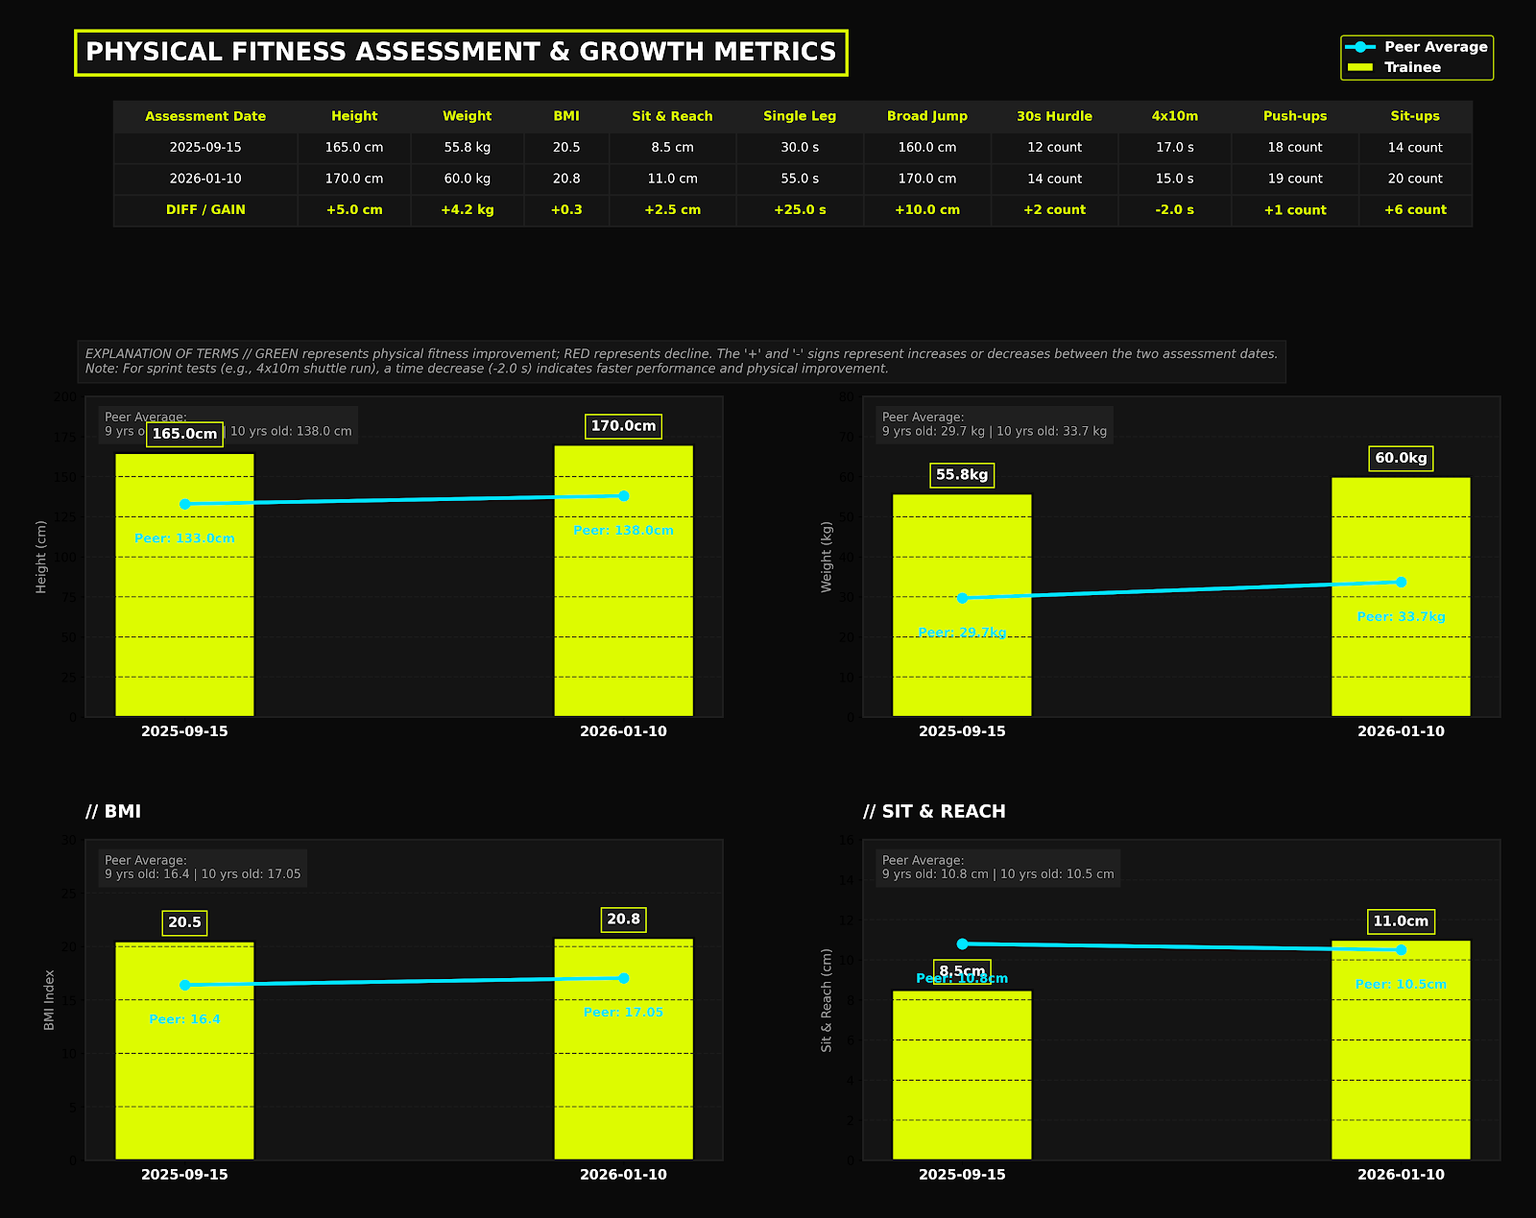
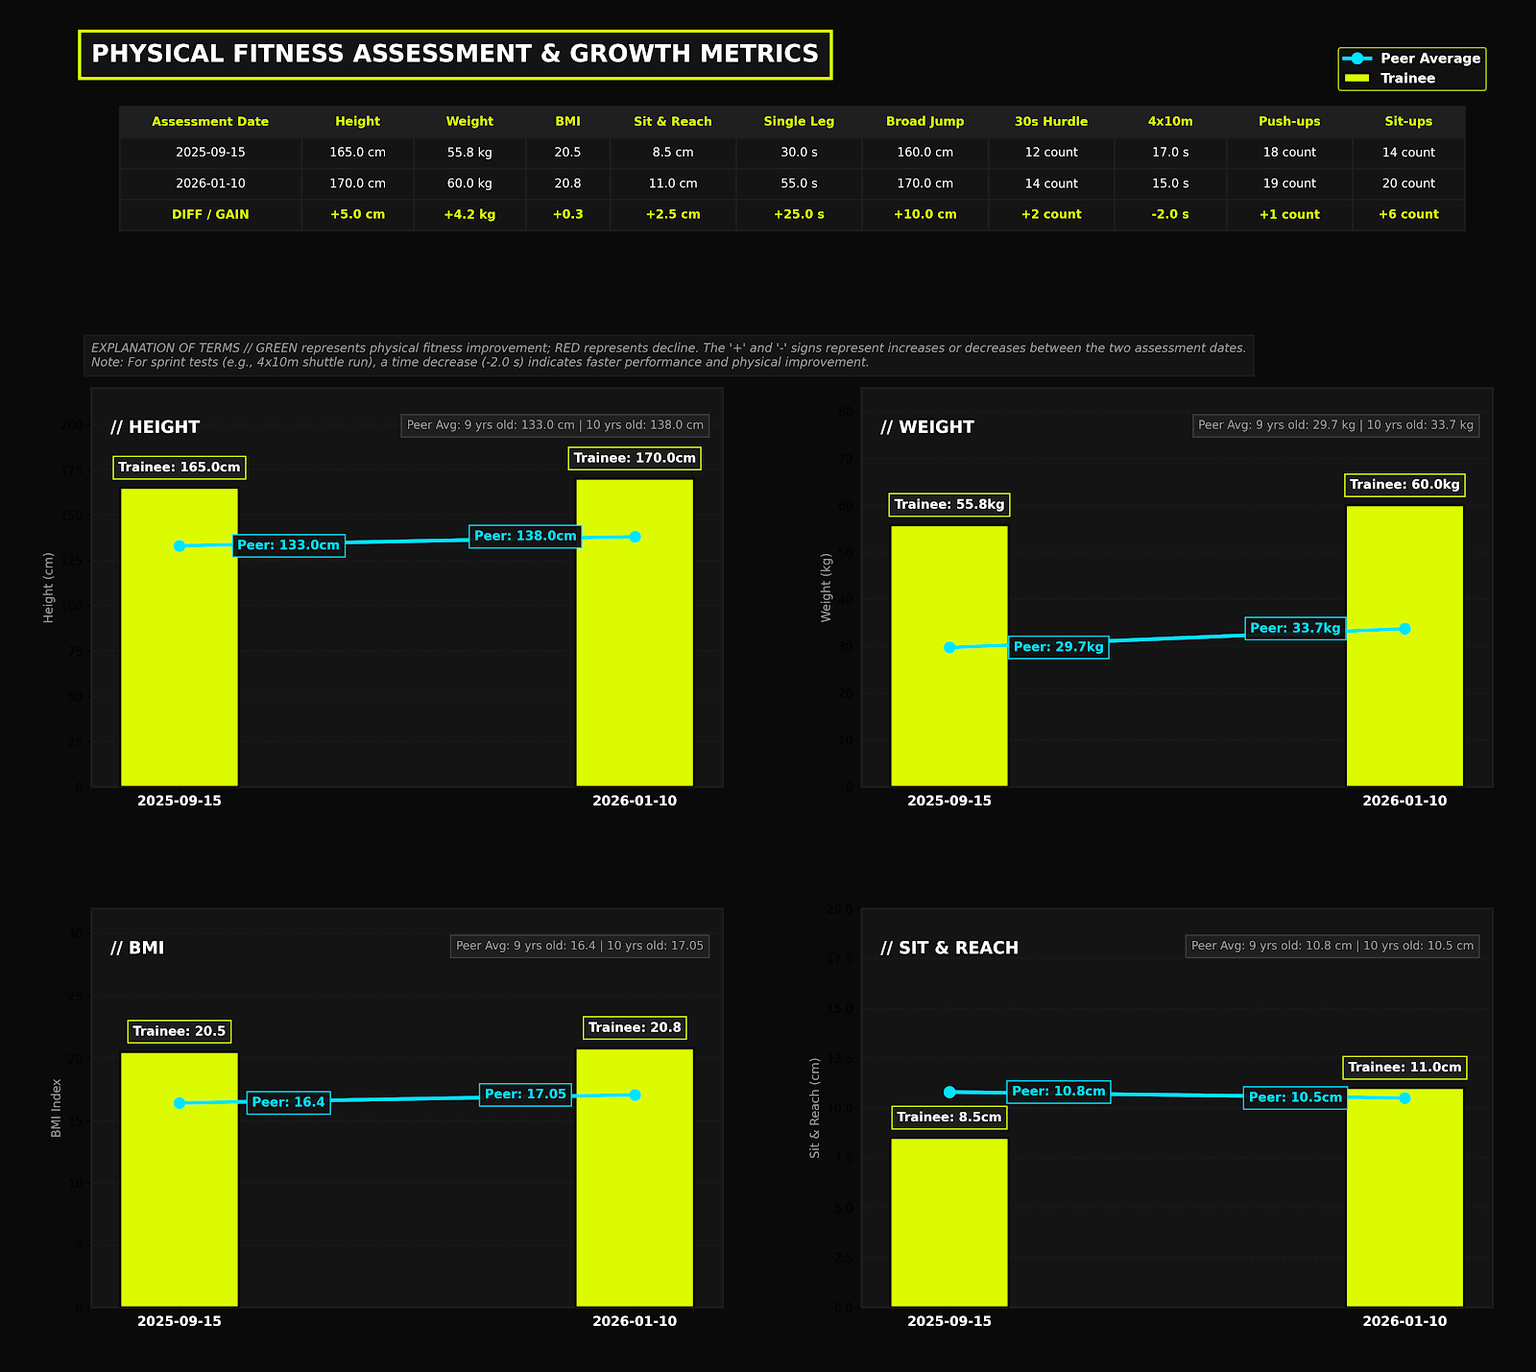
Refine footer and service page layout

diff --git a/src/components/Footer.tsx b/src/components/Footer.tsx
@@ -3,6 +3,20 @@ import Image from "next/image";
 import { footerNav } from "@/content/nav";
 import { offices, siteConfig } from "@/config/site";
 
+function getMapsLink(location: {
+  street: string;
+  region: string;
+  mapQuery?: string;
+  coords?: { lat: number; lng: number };
+}) {
+  if (location.coords) {
+    return `https://www.google.com/maps/search/?api=1&query=${location.coords.lat},${location.coords.lng}`;
+  }
+
+  const query = location.mapQuery ?? `${location.street}, ${location.region}`;
+  return `https://www.google.com/maps/search/?api=1&query=${encodeURIComponent(query)}`;
+}
+
 /**
  * The one and only site footer.
  *
@@ -15,9 +29,9 @@ export function Footer() {
   return (
     <footer className="relative overflow-hidden border-t border-[var(--bg-elevated)] bg-[var(--bg-base)]">
       <div className="mx-auto w-full max-w-7xl px-5 py-16 sm:px-8 sm:py-20">
-        <div className="grid gap-12 lg:grid-cols-[1.5fr_2fr]">
+        <div className="grid gap-10 lg:grid-cols-[1.2fr_1.1fr] lg:items-start">
           {/* Brand + blurb */}
-          <div className="max-w-md">
+          <div className="max-w-xl">
             <Image
               src={siteConfig.logoUrl}
               alt={siteConfig.name}
@@ -27,31 +41,39 @@ export function Footer() {
             />
             <p className="type-body mt-6 text-sm">{siteConfig.footerBlurb}</p>
 
-            <div className="mt-8 flex items-center gap-4">
-              <a
-                href={siteConfig.social.instagram}
-                target="_blank"
-                rel="noopener noreferrer"
-                aria-label="J17 Fitness on Instagram"
-                className="flex h-11 w-11 items-center justify-center border border-[var(--bg-elevated)] text-[var(--text-secondary)] transition-colors duration-150 hover:border-[var(--accent-lime)] hover:text-[var(--accent-lime)]"
-              >
-                <svg
-                  viewBox="0 0 24 24"
-                  aria-hidden="true"
-                  className="h-5 w-5 fill-current"
+            <div className="mt-8 space-y-3">
+              <p className="text-[11px] font-semibold uppercase tracking-[0.16em] text-[var(--accent-lime)]">
+                Subscribe to Our News
+              </p>
+              <div className="flex flex-wrap items-center gap-3">
+                <a
+                  href={siteConfig.social.instagram}
+                  target="_blank"
+                  rel="noopener noreferrer"
+                  aria-label="J17 Fitness on Instagram"
+                  className="flex h-11 w-11 items-center justify-center border border-[var(--accent-lime)]/40 bg-[var(--bg-surface)] text-[var(--accent-lime)] shadow-[0_0_0_1px_rgba(215,251,0,0.15),0_0_24px_rgba(215,251,0,0.12)] transition-all duration-150 hover:-translate-y-0.5 hover:bg-[var(--accent-lime)] hover:text-[var(--bg-base)]"
                 >
-                  <path d="M12 2.16c3.2 0 3.58.01 4.85.07 1.17.05 1.8.25 2.23.41.56.22.96.48 1.38.9.42.42.68.82.9 1.38.16.42.36 1.06.41 2.23.06 1.27.07 1.65.07 4.85s-.01 3.58-.07 4.85c-.05 1.17-.25 1.8-.41 2.23-.22.56-.48.96-.9 1.38-.42.42-.82.68-1.38.9-.42.16-1.06.36-2.23.41-1.27.06-1.65.07-4.85.07s-3.58-.01-4.85-.07c-1.17-.05-1.8-.25-2.23-.41a3.8 3.8 0 0 1-1.38-.9 3.8 3.8 0 0 1-.9-1.38c-.16-.42-.36-1.06-.41-2.23C2.17 15.58 2.16 15.2 2.16 12s.01-3.58.07-4.85c.05-1.17.25-1.8.41-2.23.22-.56.48-.96.9-1.38.42-.42.82-.68 1.38-.9.42-.16 1.06-.36 2.23-.41C8.42 2.17 8.8 2.16 12 2.16Zm0 2.16c-3.14 0-3.51.01-4.75.07-1.15.05-1.77.24-2.18.4-.55.21-.94.47-1.35.88-.41.41-.67.8-.88 1.35-.16.41-.35 1.03-.4 2.18-.06 1.24-.07 1.61-.07 4.75s.01 3.51.07 4.75c.05 1.15.24 1.77.4 2.18.21.55.47.94.88 1.35.41.41.8.67 1.35.88.41.16 1.03.35 2.18.4 1.24.06 1.61.07 4.75.07s3.51-.01 4.75-.07c1.15-.05 1.77-.24 2.18-.4.55-.21.94-.47 1.35-.88.41-.41.67-.8.88-1.35.16-.41.35-1.03.4-2.18.06-1.24.07-1.61.07-4.75s-.01-3.51-.07-4.75c-.05-1.15-.24-1.77-.4-2.18a3.6 3.6 0 0 0-.88-1.35 3.6 3.6 0 0 0-1.35-.88c-.41-.16-1.03-.35-2.18-.4-1.24-.06-1.61-.07-4.75-.07Zm0 3.67a5.01 5.01 0 1 1 0 10.02 5.01 5.01 0 0 1 0-10.02Zm0 8.26a3.25 3.25 0 1 0 0-6.5 3.25 3.25 0 0 0 0 6.5Zm6.38-8.46a1.17 1.17 0 1 1-2.34 0 1.17 1.17 0 0 1 2.34 0Z" />
-                </svg>
-              </a>
-              <a
-                href={siteConfig.social.xiaohongshu}
-                target="_blank"
-                rel="noopener noreferrer"
-                aria-label="J17 Fitness on Xiaohongshu (RED)"
-                className="flex h-11 items-center justify-center border border-[var(--bg-elevated)] px-4 text-[11px] font-bold uppercase tracking-[0.1em] text-[var(--text-secondary)] transition-colors duration-150 hover:border-[var(--accent-lime)] hover:text-[var(--accent-lime)]"
-              >
-                小红书
-              </a>
+                  <svg
+                    viewBox="0 0 24 24"
+                    aria-hidden="true"
+                    className="h-5 w-5 fill-current"
+                  >
+                    <path d="M12 2.16c3.2 0 3.58.01 4.85.07 1.17.05 1.8.25 2.23.41.56.22.96.48 1.38.9.42.42.68.82.9 1.38.16.42.36 1.06.41 2.23.06 1.27.07 1.65.07 4.85s-.01 3.58-.07 4.85c-.05 1.17-.25 1.8-.41 2.23-.22.56-.48.96-.9 1.38-.42.42-.82.68-1.38.9-.42.16-1.06.36-2.23.41-1.27.06-1.65.07-4.85.07s-3.58-.01-4.85-.07c-1.17-.05-1.8-.25-2.23-.41a3.8 3.8 0 0 1-1.38-.9 3.8 3.8 0 0 1-.9-1.38c-.16-.42-.36-1.06-.41-2.23C2.17 15.58 2.16 15.2 2.16 12s.01-3.58.07-4.85c.05-1.17.25-1.8.41-2.23.22-.56.48-.96.9-1.38.42-.42.82-.68 1.38-.9.42-.16 1.06-.36 2.23-.41C8.42 2.17 8.8 2.16 12 2.16Zm0 2.16c-3.14 0-3.51.01-4.75.07-1.15.05-1.77.24-2.18.4-.55.21-.94.47-1.35.88-.41.41-.67.8-.88 1.35-.16.41-.35 1.03-.4 2.18-.06 1.24-.07 1.61-.07 4.75s.01 3.51.07 4.75c.05 1.15.24 1.77.4 2.18.21.55.47.94.88 1.35.41.41.8.67 1.35.88.41.16 1.03.35 2.18.4 1.24.06 1.61.07 4.75.07s3.51-.01 4.75-.07c1.15-.05 1.77-.24 2.18-.4.55-.21.94-.47 1.35-.88.41-.41.67-.8.88-1.35.16-.41.35-1.03.4-2.18.06-1.24.07-1.61.07-4.75s-.01-3.51-.07-4.75c-.05-1.15-.24-1.77-.4-2.18a3.6 3.6 0 0 0-.88-1.35 3.6 3.6 0 0 0-1.35-.88c-.41-.16-1.03-.35-2.18-.4-1.24-.06-1.61-.07-4.75-.07Zm0 3.67a5.01 5.01 0 1 1 0 10.02 5.01 5.01 0 0 1 0-10.02Zm0 8.26a3.25 3.25 0 1 0 0-6.5 3.25 3.25 0 0 0 0 6.5Zm6.38-8.46a1.17 1.17 0 1 1-2.34 0 1.17 1.17 0 0 1 2.34 0Z" />
+                  </svg>
+                </a>
+                <a
+                  href={siteConfig.social.xiaohongshu}
+                  target="_blank"
+                  rel="noopener noreferrer"
+                  aria-label="J17 Fitness on Xiaohongshu (RED)"
+                  className="flex h-11 items-center justify-center border border-[var(--accent-lime)]/40 bg-[var(--bg-surface)] px-4 text-[11px] font-bold uppercase tracking-[0.1em] text-[var(--text-primary)] shadow-[0_0_0_1px_rgba(215,251,0,0.15),0_0_24px_rgba(215,251,0,0.12)] transition-all duration-150 hover:-translate-y-0.5 hover:bg-[var(--accent-lime)] hover:text-[var(--bg-base)]"
+                >
+                  小红书
+                </a>
+              </div>
+              <p className="text-sm text-[var(--text-secondary)]">
+                Stay in touch with new classes, events, and openings.
+              </p>
             </div>
           </div>
 
@@ -80,9 +102,15 @@ export function Footer() {
         </div>
 
         {/* Offices */}
-        <div className="mt-16 grid gap-8 border-t border-[var(--bg-elevated)] pt-10 sm:grid-cols-3">
+        <div className="mt-12 grid gap-4 border-t border-[var(--bg-elevated)] pt-10 sm:grid-cols-3">
           {offices.map((office) => (
-            <div key={office.slug}>
+            <a
+              key={office.slug}
+              href={getMapsLink(office)}
+              target="_blank"
+              rel="noopener noreferrer"
+              className="group rounded border border-[var(--bg-elevated)] bg-[var(--bg-surface)]/60 p-5 transition-colors duration-150 hover:border-[var(--accent-lime)] hover:bg-[var(--bg-surface)]"
+            >
               <h2 className="mb-3 text-[11px] font-bold uppercase tracking-[0.15em] text-[var(--text-primary)]">
                 {office.slug === "markham" ? "Main Office" : `${office.city} Office`}
               </h2>
@@ -94,28 +122,28 @@ export function Footer() {
                 {office.phone && (
                   <>
                     <br />
-                    <a
-                      href={`tel:${office.phone.replace(/[^+\d]/g, "")}`}
-                      className="transition-colors duration-150 hover:text-[var(--accent-lime)]"
-                    >
+                    <span className="mt-2 inline-block text-[var(--text-primary)] transition-colors duration-150 group-hover:text-[var(--accent-lime)]">
                       {office.phone}
-                    </a>
+                    </span>
                   </>
                 )}
               </address>
-            </div>
+              <span className="mt-4 inline-flex items-center text-[11px] font-semibold uppercase tracking-[0.12em] text-[var(--accent-lime)]">
+                Open in Google Maps ↗
+              </span>
+            </a>
           ))}
         </div>
 
         {/* Bottom bar */}
-        <div className="mt-12 flex flex-col gap-4 border-t border-[var(--bg-elevated)] pt-8 text-sm text-[var(--text-secondary)] sm:flex-row sm:items-center sm:justify-between">
+        <div className="mt-10 flex flex-col gap-4 border-t border-[var(--bg-elevated)] pt-8 text-sm text-[var(--text-secondary)] sm:flex-row sm:items-center sm:justify-between">
           <p>
             © {year} {siteConfig.legalName}. All rights reserved.
           </p>
           <p className="flex flex-wrap items-center gap-x-6 gap-y-2">
             <a
-              href={`mailto:${siteConfig.email}`}
-              className="transition-colors duration-150 hover:text-[var(--accent-lime)]"
+              href={`mailto:${siteConfig.email}?subject=Hello%20J17%20Fitness`}
+              className="font-semibold text-[var(--accent-lime)] underline decoration-[var(--accent-lime)]/70 underline-offset-4 transition-colors duration-150 hover:opacity-80"
             >
               {siteConfig.email}
             </a>

diff --git a/src/app/performance-index/page.tsx b/src/app/performance-index/page.tsx
@@ -141,9 +141,9 @@ export default function PerformanceIndexPage() {
 
           <div className="mt-16">
             <ReportFigure
-              src="/img/index/physique-overview.png"
+              src={asset("img/index/physique-overview.png")}
               width={1600}
-              height={998}
+                height={1269}
               alt="A Performance Index report panel titled General Situation of Physique. Two donut charts compare test-category proportions between a September 2025 assessment and a January 2026 reassessment. Excellent rises from 28.57 percent to 57.14 percent. Below, a table lists height, weight, BMI, sit and reach, single leg balance, broad jump, 30 second hurdle, 4 by 10 metre shuttle, push-ups and sit-ups for both dates, with the gain on each."
               caption="Sample report: how the category mix shifts between a benchmark and a retest"
             />
@@ -154,16 +154,14 @@ export default function PerformanceIndexPage() {
       {/* ---------------- What we measure ---------------- */}
       <Section>
         <Container>
-          <div className="grid gap-10 lg:grid-cols-12 lg:gap-16">
-            <div className="lg:col-span-5">
+          <div className="grid gap-12 lg:grid-cols-[0.95fr_1.05fr] lg:gap-16 lg:items-start">
+            <div>
               <SectionHeading
                 eyebrow="The benchmark"
                 title="What we measure"
                 lead="Each assessment establishes a benchmark and identifies development priorities."
               />
-            </div>
-            <div className="lg:col-span-7">
-              <div className="grid gap-px bg-[var(--bg-elevated)] sm:grid-cols-2">
+              <div className="mt-10 grid gap-px bg-[var(--bg-elevated)] sm:grid-cols-2">
                 {whatWeMeasure.map((item, i) => (
                   <Reveal key={item} delay={i * 100}>
                     <div className="flex h-full items-center gap-4 bg-[var(--bg-surface)] p-6">
@@ -181,17 +179,17 @@ export default function PerformanceIndexPage() {
                 ))}
               </div>
             </div>
-          </div>
 
-          <div className="mt-16 flex justify-center">
-            <ReportFigure
-              src="/img/index/competency-radar.png"
-              width={1470}
-              height={1600}
-              maxWidth={760}
-              alt="A Performance Index competency radar chart plotting eight axes: BMI, flexibility, lower strength, balance, core strength, upper strength, agility and coordination. A lime outline shows the individual's competency distribution and a cyan outline shows the peer average, so strengths and gaps against peers are visible at a glance."
-              caption="Sample report: your competency profile plotted against your peer group"
-            />
+            <div>
+              <ReportFigure
+                src="/img/index/competency-radar.png"
+                width={1470}
+                height={1600}
+                maxWidth={760}
+                alt="A Performance Index competency radar chart plotting eight axes: BMI, flexibility, lower strength, balance, core strength, upper strength, agility and coordination. A lime outline shows the individual's competency distribution and a cyan outline shows the peer average, so strengths and gaps against peers are visible at a glance."
+                caption="Sample report: your competency profile plotted against your peer group"
+              />
+            </div>
           </div>
         </Container>
       </Section>
@@ -235,7 +233,7 @@ export default function PerformanceIndexPage() {
           />
           <div className="mt-14">
             <ReportFigure
-              src="/img/index/scorecard.png"
+              src="/img/index/growth-metrics.png"
               width={2296}
               height={1824}
               alt="A Performance Index scorecard. A legend defines four bands: Needs Effort, Fair, Good and Excellent. Below it, one row per test shows the trainee's score bar, the average score bar, and the standard breakpoints between bands. Rows shown are sit and reach for flexibility, single leg balance, broad jump for lower strength, and the step test for coordination."

diff --git a/src/components/ServicePage.tsx b/src/components/ServicePage.tsx
@@ -6,7 +6,7 @@ import { BookingCTA, WaitlistCTA } from "./CTA";
 import { IndexProof } from "./IndexProof";
 import { MoreServices } from "./MoreServices";
 import { Reveal } from "./Reveal";
-import { CheckList, Container, Section, SectionHeading } from "./Section";
+import { Container, Section, SectionHeading } from "./Section";
 
 /**
  * The template behind all eight service pages (5 classes + 3 training
@@ -150,24 +150,22 @@ export function ServicePage({ service }: { service: Service }) {
         <IndexProof metric={service.indexMetric} surface={nextBand()} />
       )}
 
-      {/* ---------------- Founding checklist + serving ---------------- */}
+      {/* ---------------- At a glance ---------------- */}
       <Section surface={nextBand()}>
         <Container>
-          <div className="grid gap-10 lg:grid-cols-12 lg:gap-16">
-            <div className="lg:col-span-5">
-              <SectionHeading
-                eyebrow="Founding memberships"
-                title="What you get"
-              />
-            </div>
-            <div className="lg:col-span-7">
-              <CheckList items={service.checklist} />
-
-              <Reveal delay={400}>
-                <p className="type-eyebrow mt-12 border-l-4 border-[var(--accent-lime)] pl-5">
-                  Serving: {service.serving}
+          <div className="rounded border border-[var(--bg-elevated)] bg-[var(--bg-surface)] p-8 sm:p-10">
+            <p className="type-eyebrow">At a glance</p>
+            <div className="mt-6 grid gap-8 md:grid-cols-2">
+              <div>
+                <h3 className="type-h3">Built for</h3>
+                <p className="type-body mt-3">
+                  {service.builds ?? service.name}
                 </p>
-              </Reveal>
+              </div>
+              <div>
+                <h3 className="type-h3">Serving</h3>
+                <p className="type-body mt-3">{service.serving}</p>
+              </div>
             </div>
           </div>
         </Container>
@@ -184,11 +182,10 @@ export function ServicePage({ service }: { service: Service }) {
         <Container>
           <Reveal className="max-w-3xl">
             <h2 className="type-h2">
-              Be first through <span className="text-[var(--accent-lime)]">the doors</span>
+              Ready to see it for yourself?
             </h2>
             <p className="type-body mt-6 text-lg">
-              Founding memberships are opening now. Join the waitlist and we&apos;ll
-              reach out with founding-member rates and details before anyone else.
+              If this feels like the right fit, we&apos;ll help you take the next step.
             </p>
             <div className="mt-10 flex flex-wrap items-center gap-4">
               <WaitlistCTA variant="primary" />

diff --git a/src/app/cafe/page.tsx b/src/app/cafe/page.tsx
@@ -1,5 +1,4 @@
 import type { Metadata } from "next";
-import Image from "next/image";
 import { WaitlistCTA } from "@/components/CTA";
 import { ComingSoon } from "@/components/ComingSoon";
 import { Reveal } from "@/components/Reveal";
@@ -44,23 +43,16 @@ export default function CafePage() {
   return (
     <>
       {/* ---------------- Hero ---------------- */}
-      <section className="relative flex min-h-[60vh] items-end overflow-hidden pt-20 sm:min-h-[70vh]">
-        {/* TODO: replace with real café photography once the space is built. */}
-        <Image
-          src={asset("img/15.jpg")}
-          alt=""
-          aria-hidden="true"
-          fill
-          priority
-          sizes="100vw"
-          className="object-cover"
-        />
-        <div className="img-scrim absolute inset-0" aria-hidden="true" />
-
-        <Container className="relative z-10 pb-16 sm:pb-24">
+      <section className="border-b border-[var(--bg-elevated)] bg-[var(--bg-surface)] py-24 sm:py-32">
+        <Container>
           <Reveal>
             <p className="type-eyebrow mb-5">Fuel</p>
             <h1 className="type-h1 max-w-4xl">The Café</h1>
+            <p className="type-body mt-8 max-w-3xl text-lg">
+              The café opens with the club. We’re building it to feel like part
+              of the experience from day one — healthy, performance-focused food
+              in the same space as training and recovery.
+            </p>
           </Reveal>
         </Container>
       </section>

diff --git a/src/app/page.tsx b/src/app/page.tsx
@@ -196,13 +196,13 @@ export default function HomePage() {
         <Container>
           <div className="grid items-center gap-12 lg:grid-cols-2 lg:gap-16">
             <Reveal>
-              <div className="relative aspect-[4/3] overflow-hidden">
+              <div className="relative aspect-[4/3] bg-[var(--bg-base)] p-4 sm:p-6">
                 <Image
-                  src={asset("img/measure.jpg")}
+                  src={asset("img/index/physique-overview.png")}
                   alt="A coach reviewing Performance Index™ assessment results"
                   fill
                   sizes="(max-width: 1024px) 100vw, 50vw"
-                  className="object-cover"
+                  className="object-contain"
                 />
               </div>
             </Reveal>
@@ -340,12 +340,8 @@ export default function HomePage() {
       <Section>
         <Container>
           <Reveal>
-            {/* TODO: replace with a dedicated poster frame from the final
-                video edit. The YouTube thumbnail for this video only exists
-                at 480x360, which is too soft to run full width. */}
             <HeroVideo
               videoId={siteConfig.youtubeHeroId}
-              poster={asset("img/location4.jpg")}
               caption="Train. Recover. Feel the difference."
             />
           </Reveal>

diff --git a/src/app/contact-us/page.tsx b/src/app/contact-us/page.tsx
@@ -84,8 +84,8 @@ export default function ContactPage() {
                 <h2 className="type-h3">Email</h2>
                 <p className="mt-5">
                   <a
-                    href={`mailto:${siteConfig.email}`}
-                    className="type-body transition-colors duration-150 hover:text-[var(--accent-lime)]"
+                    href={`mailto:${siteConfig.email}?subject=Hello%20J17%20Fitness`}
+                    className="type-body font-semibold text-[var(--accent-lime)] underline decoration-[var(--accent-lime)]/70 underline-offset-4 transition-colors duration-150 hover:opacity-80"
                   >
                     {siteConfig.email}
                   </a>

diff --git a/src/config/site.ts b/src/config/site.ts
@@ -84,9 +84,16 @@ export const siteConfig = {
     "https://dp-prod.s3.us-east-2.amazonaws.com/img/tmp/j17performance.com/logo-2.png",
 } as const;
 
+const localAssetOverrides: Record<string, string> = {
+  "img/index/physique-overview.png": "/img/index/physique-overview.png",
+};
+
 /** Resolve an archive image path (e.g. "img/pilates-hero.jpg") to a full URL. */
 export function asset(path: string): string {
   const clean = path.replace(/^\/+/, "");
+  if (clean in localAssetOverrides) {
+    return localAssetOverrides[clean];
+  }
   return `${siteConfig.assetBase}/${clean}`;
 }
 

diff --git a/src/content/nav.ts b/src/content/nav.ts
@@ -17,8 +17,10 @@ export type NavItem = NavLink & {
 };
 
 export const mainNav: NavItem[] = [
-  // "Home" is deliberately absent: the logo links there, which is the
-  // established convention and buys back horizontal room in a crowded bar.
+  {
+    label: "Home",
+    href: "/",
+  },
   {
     label: "Classes",
     href: "/classes",
